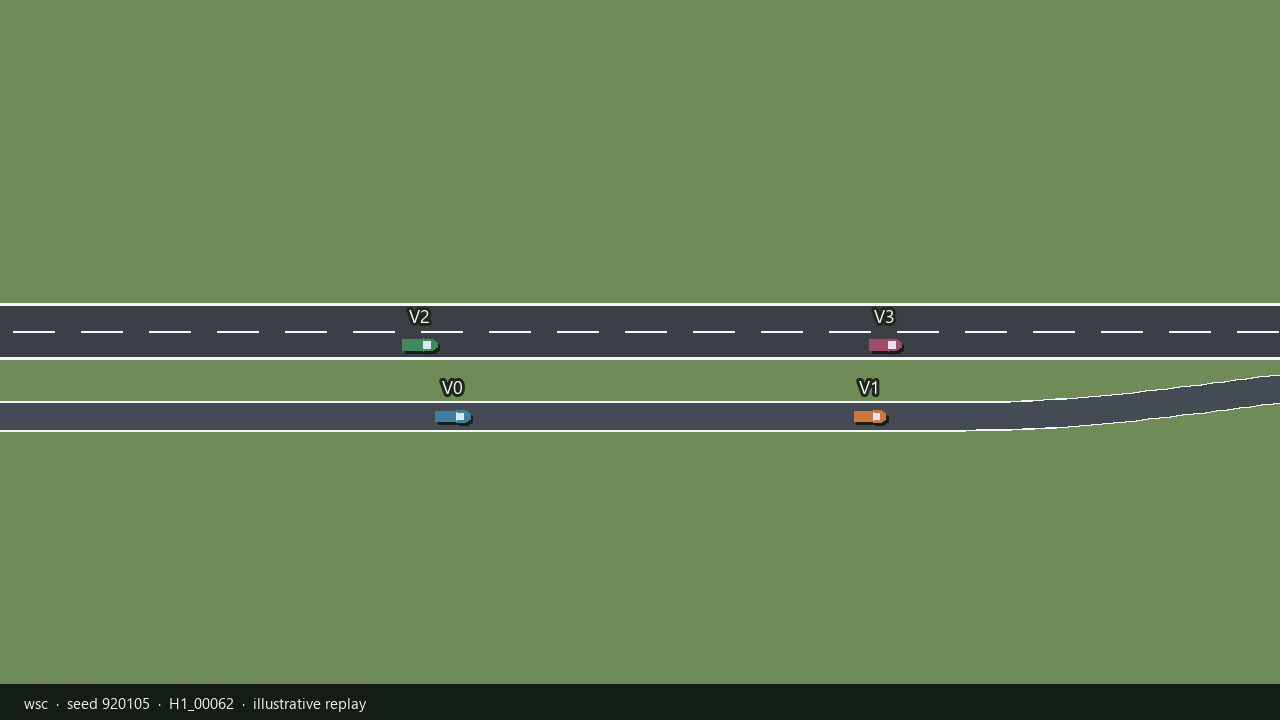
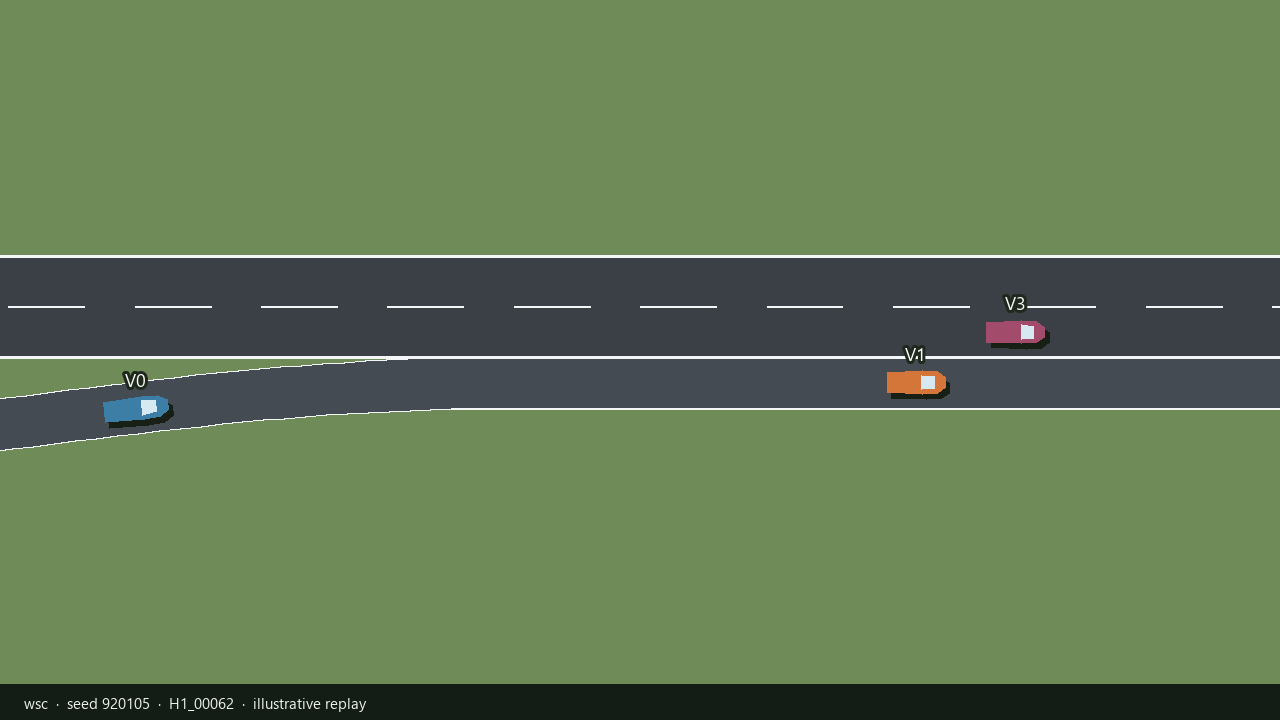
Show the merge in every clip and add the thesis result figures.
Clips now keep a shared camera scale and continue until the vehicles join the mainline. Body type is larger, and the research page uses the dissertation plots for the 12-seed results.

Changed region(s): [[0.0, 0.3361, 1.0, 0.6417]]

diff --git a/src/data/experiments.ts b/src/data/experiments.ts
@@ -25,7 +25,7 @@ export const experiments: Experiment[] = [
     videoPath: "/videos/exp01-baseline.webp",
     posterPath: "/images/research/fair-marl/exp01-keyframe.png",
     caveat: "Representative episode · exact replay · illustrative only",
-    metadata: "Exact H1 replay · seed 920101 · scenario H1_00159 · steps 10–30",
+    metadata: "Exact H1 replay · seed 920101 · scenario H1_00159 · selected steps 10–30, then the same replay continues through the merge.",
   },
   {
     id: "exp02",
@@ -39,7 +39,7 @@ export const experiments: Experiment[] = [
     posterPath: "/images/research/fair-marl/exp02-keyframe.png",
     caveat: "Representative episode · exact replay · illustrative only",
     metadata:
-      "Exact H1 replay · seed 920101 · scenario H1_00159 · same scene as EXP01. This clip does not show why the condition failed to improve fairness.",
+      "Exact H1 replay · seed 920101 · scenario H1_00159 · selected from step 42. The same replay is shown through the merge. This clip does not show why the condition failed to improve fairness.",
   },
   {
     id: "exp03",
@@ -53,7 +53,7 @@ export const experiments: Experiment[] = [
     posterPath: "/images/research/fair-marl/exp03-keyframe.png",
     caveat: "Representative episode · exact replay · illustrative only",
     metadata:
-      "Exact H1 replay · seed 920105 · scenario H1_00062 · selected event at step 19 (3.8 s). One episode is not aggregate causal evidence.",
+      "Exact H1 replay · seed 920105 · scenario H1_00062 · selected event at step 19. The animation then continues until the vehicles have merged.",
   },
   {
     id: "exp04",
@@ -66,7 +66,7 @@ export const experiments: Experiment[] = [
     videoPath: "/videos/exp04-dws.webp",
     posterPath: "/images/research/fair-marl/exp04-keyframe.png",
     caveat: "Representative episode · exact replay · illustrative only",
-    metadata: "Exact H1 replay · seed 910101 · scenario H1_00012 · shared signal across active agents.",
+    metadata: "Exact H1 replay · seed 910101 · scenario H1_00012 · same road scale as the other clips, shown through the merge.",
   },
   {
     id: "exp05",
@@ -80,6 +80,6 @@ export const experiments: Experiment[] = [
     posterPath: "/images/research/fair-marl/exp05-keyframe.png",
     caveat: "Mechanism reconstruction · illustrative only",
     metadata:
-      "Reconstructed mechanism overlay, not an exact formal environment replay · seed 900104 · scenario H1_00005.",
+      "Reconstructed mechanism overlay, not an exact formal environment replay · seed 900104 · scenario H1_00005 · shown through the merge.",
   },
 ];

diff --git a/src/data/research.ts b/src/data/research.ts
@@ -41,6 +41,45 @@ export const pipeline = [
   "Task + welfare evaluation",
 ] as const;
 
+export const thesisFigures = [
+  {
+    src: "/images/research/fair-marl/figures/exp01_braking_vs_burden.png",
+    alt: "Seed-level braking rates and mobility burden for Slow and Fast vehicles under Baseline",
+    caption:
+      "Dissertation Figure 4.5. Under Baseline, Slow vehicles brake more often, while Fast vehicles carry more requirement-relative mobility burden. Each point is one training seed.",
+  },
+  {
+    src: "/images/research/fair-marl/figures/exp01_fast_worstoff.png",
+    alt: "Fast-vehicle share of worst-off outcomes across Baseline training seeds",
+    caption:
+      "Dissertation Figure 4.4. Fast vehicles account for most identifiable worst-off outcomes. The dashed line is the 50% reference.",
+  },
+  {
+    src: "/images/research/fair-marl/figures/exp02_swf_paired_effects.png",
+    alt: "Paired welfare effects of Mean, GGI, and Maximin relative to Baseline",
+    caption:
+      "Dissertation Figure 4.7. Seed-paired changes in worst-off utility and Utility Gini for Mean, generalized Gini, and Maximin against the matched Baseline. Intervals that include zero are not read as an improvement.",
+  },
+  {
+    src: "/images/research/fair-marl/figures/exp03_wsc_recovery.png",
+    alt: "Welfare-gap recovery after targeted yielding under original observations and WSC",
+    caption:
+      "Dissertation Figure 4.8. After a targeted yield, local welfare-gap recovery is higher under welfare-state communication than under the original observations. That local change is separate from the final welfare distribution.",
+  },
+  {
+    src: "/images/research/fair-marl/figures/exp04_dws_single_checkpoint_effects.png",
+    alt: "Seed-paired DWS changes in worst-off utility and Utility Gini",
+    caption:
+      "Dissertation Figure 4.10. Dense welfare shaping at the 2.0M checkpoint. The average can move in a favourable direction while individual seeds move both ways.",
+  },
+  {
+    src: "/images/research/fair-marl/figures/exp05_primary_paired_outcomes.png",
+    alt: "Seed-paired EXP05 outcomes for worst-off utility and Utility Gini",
+    caption:
+      "Dissertation Figure 4.13. Paired 3.0M versus 3.8M outcomes for the mechanism condition. All 12 seeds are shown. The interval for worst-off utility crosses zero.",
+  },
+] as const;
+
 export const findings = [
   {
     n: "01",

diff --git a/src/styles/global.css b/src/styles/global.css
@@ -15,7 +15,7 @@
 }
 
 html {
-  font-size: 19px;
+  font-size: 22px;
   scroll-behavior: smooth;
 }
 
